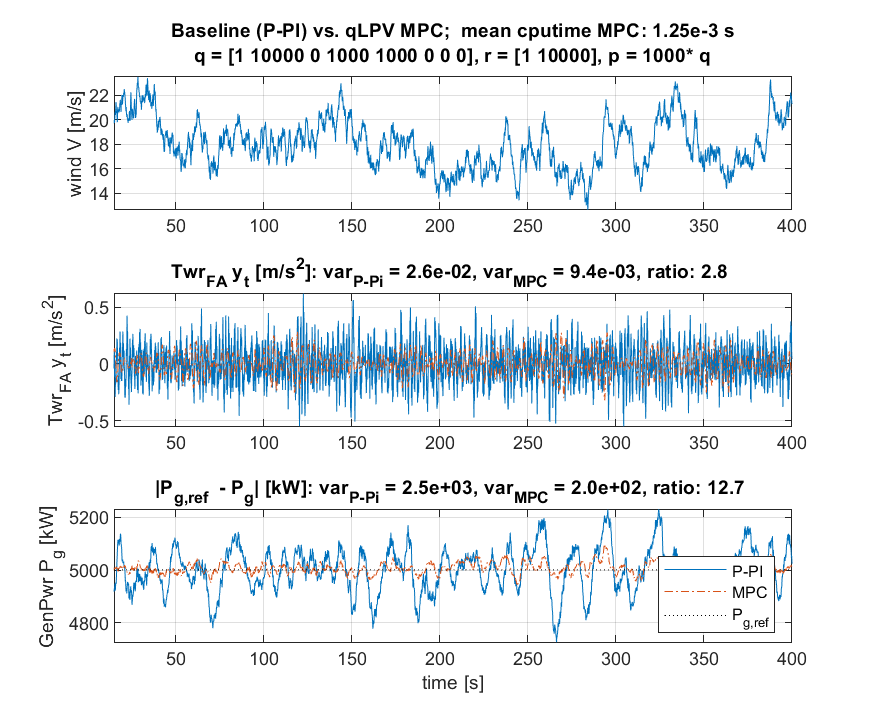
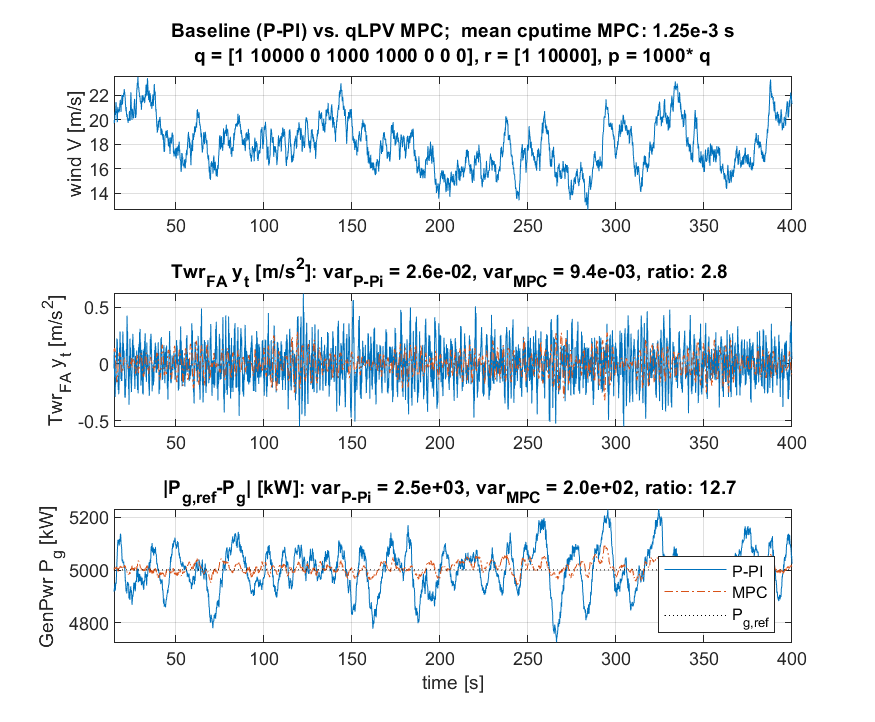
changes for new plots

Changed region(s): [[0.1851, 0.6399, 0.864, 0.7008]]

diff --git a/acc22/runGeneratePicsPaperACC.m b/acc22/runGeneratePicsPaperACC.m
@@ -39,34 +39,8 @@ UIOstr = 'UIOall';
 [OutTableTest2Plot, OutTableMPCPlot,OutTableMPC2Plot,PGRef] = runCompareCtrl(strWindType,loadData,figNo1,useFASTForComparison,UIOstr);
 
 
-
 figure(104) 
-%workDir = fileparts(mfilename('fullpath'));
-mainDir = pwd; %fileparts(workDir);
-
-% Set path to figure directory
-figDir = fullfile(mainDir,'figDirUIO');
-subplot(1,2,1);
-histogram(OutTableTest2Plot.NcIMUTAxs,20); hold on;
-histogram(OutTableMPCPlot.NcIMUTAxs,20); histogram(OutTableMPC2Plot.NcIMUTAxs,20); 
-hold off;
-axis tight; grid on;
-ylabel('Occurence [-]');
-xlabel( 'Twr_{FA} y_t [m/s^2]')
-subplot(1,2,2);
-histogram(abs(OutTableTest2Plot.GenPwr - PGRef),20); hold on;
-histogram(abs(OutTableMPCPlot.GenPwr - PGRef),20); histogram(abs(OutTableMPC2Plot.GenPwr - PGRef),20); 
-xlabel('|P_{g,ref}-P_g| [kW]')
-% histogram(OutTableTest2Plot.GenPwr - PGRef,20); hold on;
-% histogram(OutTableMPCPlot.GenPwr - PGRef,20); histogram(OutTableMPC2Plot.GenPwr - PGRef,20); 
-% xlabel('P_{g,ref}-P_g [kW]')
-legend('P-PI','MPC V_{est}','MPC V_{real}','Position',[0.3285 0.7738 0.1792 0.1341])
-hold off;
-axis tight; grid on;
-% save to png/eps
-print(gcf,fullfile(figDir,'histTwrPabs'), '-dpng');
-print(gcf,fullfile(figDir,'histTwrPabs'), '-depsc');
-
+plotHistogram(OutTableTest2Plot, OutTableMPCPlot,OutTableMPC2Plot,PGRef)
 
 
 

diff --git a/acc22/NonLinMdl/plotHistogram.m b/acc22/NonLinMdl/plotHistogram.m
@@ -1,0 +1,27 @@
+function plotHistogram(OutTableTest2Plot, OutTableMPCPlot,OutTableMPC2Plot,PGRef)
+
+% Set path to figure directory
+workDir = fileparts(mfilename('fullpath'));
+mainDir = fileparts(workDir);
+figDir = fullfile(mainDir,'figDirUIO');
+
+subplot(1,2,1);
+histogram(OutTableTest2Plot.NcIMUTAxs,20); hold on;
+histogram(OutTableMPCPlot.NcIMUTAxs,20); histogram(OutTableMPC2Plot.NcIMUTAxs,20); 
+hold off;
+axis tight; grid on;
+ylabel('Occurence [-]');
+xlabel( 'Twr_{FA} y_t [m/s^2]')
+subplot(1,2,2);
+% histogram(abs(OutTableTest2Plot.GenPwr - PGRef),20); hold on;
+% histogram(abs(OutTableMPCPlot.GenPwr - PGRef),20); histogram(abs(OutTableMPC2Plot.GenPwr - PGRef),20); 
+% xlabel('|P_{g,ref}-P_g| [kW]')
+histogram(OutTableTest2Plot.GenPwr - PGRef,20); hold on;
+histogram(OutTableMPCPlot.GenPwr - PGRef,20); histogram(OutTableMPC2Plot.GenPwr - PGRef,20); 
+xlabel('P_{g,ref}-P_g [kW]')
+legend('P-PI','MPC V_{est}','MPC V_{real}','Position',[0.3285 0.7738 0.1792 0.1341])
+hold off;
+axis tight; grid on;
+% save to png/eps
+print(gcf,fullfile(figDir,'histTwrPabs'), '-dpng');
+print(gcf,fullfile(figDir,'histTwrPabs'), '-depsc');

diff --git a/acc22/NonLinMdl/plotSignalErrorMeasFilt.m b/acc22/NonLinMdl/plotSignalErrorMeasFilt.m
@@ -3,7 +3,7 @@ function plotSignalErrorMeasFilt(OutDataRotorSpeed,DT,ylabStr)
 
 %% Assign default inputs
 if nargin <1 || isempty(OutDataRotorSpeed)
-    load(fullfile('dataOut','OutDataRotorSpeedPI'),'OutDataRotorSpeed');
+    load(fullfile('dataOut','OutDataRotorSpeedMPC'),'OutDataRotorSpeed');
 end
 
 if nargin <2 || isempty(DT)
